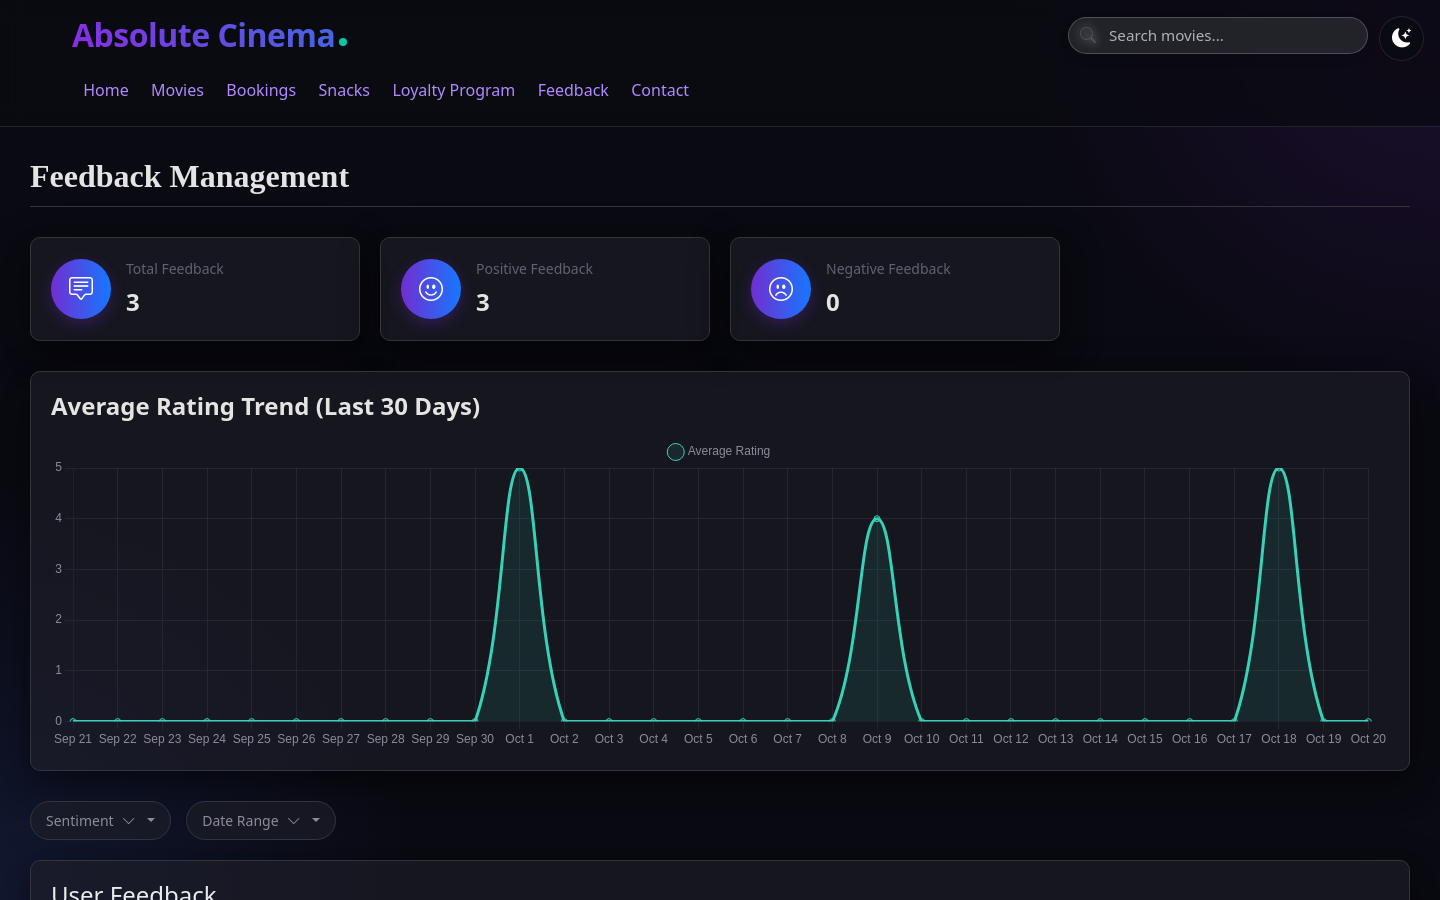
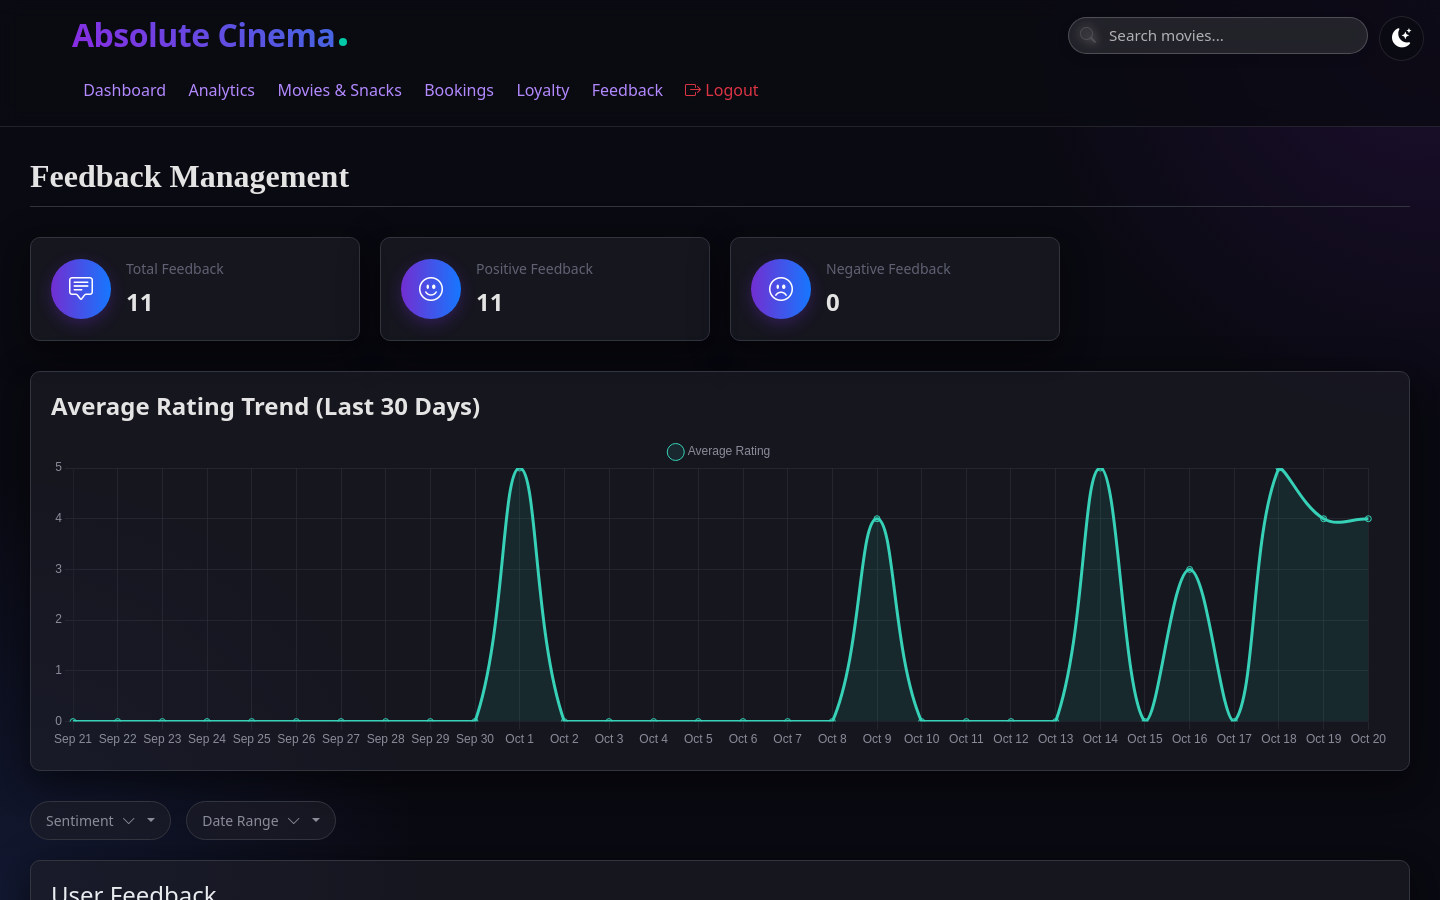
Refresh README, screenshots and demo data
- Cover banner and a gallery of the live customer, admin and staff pages
- Document roles, tests and the loyalty rules
- Demo data with posters, snack images, six months of bookings, more members
  and the employee's current shifts

diff --git a/README.md b/README.md
@@ -1,7 +1,5 @@
 <div align="center">
 
-# 🎬 Absolute Cinema
-
 **A full-stack cinema management platform: ticket booking, seat selection, snacks, Stripe payments, loyalty rewards, and admin analytics.**
 
 [![CI](https://github.com/AnnusShahzad/AbsoluteCinema/actions/workflows/ci.yml/badge.svg)](https://github.com/AnnusShahzad/AbsoluteCinema/actions/workflows/ci.yml)
@@ -13,7 +11,7 @@
 ![Docker](https://img.shields.io/badge/Docker-Compose-2496ED?logo=docker&logoColor=white)
 [![License: MIT](https://img.shields.io/badge/License-MIT-yellow.svg)](LICENSE)
 
-<img src="docs/screenshots/user-dashboard.png" alt="Absolute Cinema customer dashboard" width="900">
+<img src="docs/banner.png" alt="Absolute Cinema" width="900">
 
 </div>
 
@@ -27,30 +25,31 @@ It was built by a team of six, using GitHub issues for planning and pull request
 
 | Area | What it does |
 | --- | --- |
-| **Authentication & roles** | Spring Security form login with BCrypt password hashing. After login, users are routed to the customer, employee, or admin experience by account type. |
-| **Booking flow** | Multi-step wizard: movie → showtime → interactive seat map → snacks → payment. |
-| **Payments** | Stripe PaymentIntents, with the option to pay with loyalty points instead. |
-| **Loyalty program** | Points earned per ticket and snack, Bronze/Silver/Gold tiers, and redemption at checkout. |
-| **Booking history** | Customers can review past bookings with totals and session details. |
-| **Feedback** | Customers rate and review movies. Admins see sentiment counts and a 30-day rating trend. |
-| **Admin analytics** | Chart.js dashboards for tickets and snacks sold, revenue split, and most popular movies. |
-| **Employee portal** | Monthly salary and recent shifts for each staff member. |
-| **REST API** | JSON endpoints under `/api/{movies,sessions,snacks,users,loyalty,feedback}` drive the dynamic UI. |
-| **Theming** | Light/dark theme toggle, remembered across visits. |
+| **Authentication & roles** | Spring Security form login with BCrypt. Accounts map to `ROLE_USER`, `ROLE_EMPLOYEE` or `ROLE_ADMIN`; admin pages, staff pages and catalog writes are restricted per role, and every state-changing request is CSRF-protected. |
+| **Streaming-style home** | Featured hero, "Trending Now" poster row and a Top 3 ranking, all driven by live ticket sales. |
+| **Booking flow** | Movie → showtime → interactive seat map → snacks → Stripe payment. Successful payments record the booking, update stock and sales counters, and award loyalty points. |
+| **Loyalty program** | 50 points per ticket, 20 per snack, Bronze/Silver/Gold tiers, and 250 points redeemable for a free ticket and snack. |
+| **Admin console** | Dashboard, sales analytics (monthly ticket vs. snack revenue, genre breakdown, best sellers), movie and snack management with add/edit/delete, booking cancellation, loyalty members, and customer feedback trends. |
+| **Employee portal** | This month's shifts and salary for the signed-in staff member. |
+| **REST API** | JSON endpoints under `/api/{movies,sessions,snacks,feedback}` power the dynamic UI. |
 
 ## Screenshots
 
-| Sign in | Sign up |
+<img src="docs/screenshots/user-dashboard-full.png" alt="Customer home page" width="100%">
+
+| Movie catalog | Movie details |
 | --- | --- |
-| ![Sign in](docs/screenshots/login.png) | ![Sign up](docs/screenshots/register.png) |
+| ![Movie catalog](docs/screenshots/movies.png) | ![Movie details](docs/screenshots/movie-details.png) |
 | **Seat selection** | **Snacks** |
 | ![Seat selection](docs/screenshots/seat-selection.png) | ![Snack selection](docs/screenshots/snacks.png) |
-| **Loyalty program** | **Booking history** |
-| ![Loyalty program](docs/screenshots/loyalty.png) | ![Booking history](docs/screenshots/booking-history.png) |
-| **Admin dashboard** | **Admin analytics** |
-| ![Admin dashboard](docs/screenshots/admin-dashboard.png) | ![Admin analytics](docs/screenshots/admin-analytics.png) |
-| **Feedback management** | **Employee dashboard** |
-| ![Feedback management](docs/screenshots/admin-feedback.png) | ![Employee dashboard](docs/screenshots/employee-dashboard.png) |
+| **Sales analytics** | **Admin dashboard** |
+| ![Sales analytics](docs/screenshots/admin-analytics.png) | ![Admin dashboard](docs/screenshots/admin-dashboard.png) |
+| **Movie & snack management** | **Booking management** |
+| ![Catalog management](docs/screenshots/admin-catalog.png) | ![Booking management](docs/screenshots/admin-bookings.png) |
+| **Loyalty members** | **Feedback analytics** |
+| ![Loyalty members](docs/screenshots/admin-loyalty.png) | ![Feedback analytics](docs/screenshots/admin-feedback.png) |
+| **Sign in** | **Employee portal** |
+| ![Sign in](docs/screenshots/login.png) | ![Employee dashboard](docs/screenshots/employee-dashboard.png) |
 
 ## Tech stack
 
@@ -58,6 +57,7 @@ It was built by a team of six, using GitHub issues for planning and pull request
 - **Database:** PostgreSQL
 - **Views:** Pebble templates, Bootstrap 5, Chart.js, vanilla JavaScript
 - **Payments:** Stripe Java SDK and Stripe.js
+- **Testing:** JUnit 5, Mockito, AssertJ, Spring Security Test (MockMvc)
 - **Build & tooling:** Gradle (Kotlin DSL), Docker, Docker Compose, GitHub Actions
 
 ## Architecture
@@ -128,6 +128,14 @@ Requires JDK 17+ and a PostgreSQL instance.
 cp .env.example .env      # then edit the database URL, credentials, and Stripe keys
 ./gradlew bootRun
 ```
+
+## Testing
+
+```bash
+./gradlew test
+```
+
+Unit tests cover the analytics calculations (revenue split, monthly buckets, rankings), loyalty tiers and points, booking cancellation and snack updates. Web-layer tests check the security rules: anonymous users are sent to sign in, customers cannot reach admin pages or change the catalog, and requests without a CSRF token are rejected. CI runs the tests and builds the Docker image on every push.
 
 ## Team
 
